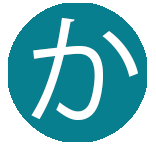
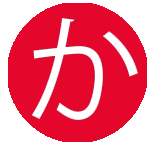
final version

diff --git a/pages/videos/video1.html b/pages/videos/video1.html
@@ -9,7 +9,7 @@
     <link rel="stylesheet" href="../../css/hover.css">
     <link rel="stylesheet" href="../../css/footer.css">
     <link rel="icon" type="image/x-icon" href="../../img/Sans titre-1.png">
-    <title>franceinfo - Les poussettes dans Paris : un danger insoupsonné</title>
+    <title>Seinen Mかnga - Vidéos</title>
 </head>
 <body>
     <header>
@@ -17,17 +17,17 @@
           <ul class="nav justify-content-left bonjour">
             <li class="nav-item">
               <a class="nav-link active" aria-current="page" href="../../index.html">
-                <h2 class="titree"><span id="blue">Enquête Manga</h2>
+                <h2 class="titree"><span id="blue">Seinen Mかnga</h2>
               </a>
             </li>
             <li class="nav-item">
-              <a class="nav-link" href="../articles.html"><span id="blue">Articles</span></a>
+              <a class="nav-link" href="../articles.html"><span id="blue">Magazine</span></a>
             </li>
             <li class="nav-item">
-              <a class="nav-link" href="../podcasts/podcast1.html"><span id="blue">Débat Radio</span></a>
+              <a class="nav-link" href="../podcasts/podcast1.html"><span id="blue">Radio</span></a>
             </li>
             <li class="nav-item">
-              <a class="nav-link" href="../videos/video1.html"><span id="blue">Vidéo</span></a>
+              <a class="nav-link" href="../videos/video1.html"><span id="blue">Vidéos</span></a>
             </li>
           </ul>
         </div>
@@ -36,9 +36,9 @@
     <div class="article">  
     </br>
     <div class="container">
-        <h3 class="titr" style="font-size:36px;">Les poussettes dans Paris : un danger insoupsonné</h3>
+        <h3 class="titr" style="font-size:36px;">Enquête : Le manga influence-t-il la société Française ?</h3>
         </br>
-        <p class="sous-titre">De multiples raisons peuvent expliquer la fuite de Paris. Bouchon, prix du loyer, bruit…Mais pour les futurs parents, c’est souvent l’envie d’un environnement plus sain pour leur enfant qui est la cause de leurs exodes. Alors, la capitale est-elle néfaste pour les plus petits ? Nous sommes partis à la rencontre d’Amine Arsan, pédiatre dans le 13 arrondissement de Paris. Pour qu’il nous explique, quels sont les risques véritables d’une croissance dans la capitale.</p>
+        <p class="sous-titre">Dans ces 3 épisodes nous nous sommes rendu dans les plus grande villes de France pour constater l'influence des mangas sur notre société.</p>
         <br/>
         <div class="auteur" style="margin-bottom: 0px;">
           <span>
@@ -46,10 +46,16 @@
           </span>
           <span style="padding-left: 9px;" class="sous-titre">La rédaction</span>
         </div>
+        <br>
+
+        <h3 class="titr" style="margin-bottom:-10px;">EP 1 : Paris - Rouen</h3>
+        <iframe width="560" height="315" src="https://www.youtube.com/embed/bZZPjBly59k" title="YouTube video player" frameborder="0" allow="accelerometer; autoplay; clipboard-write; encrypted-media; gyroscope; picture-in-picture; web-share" allowfullscreen></iframe>
       
-        <div class="videocont nav justify-content-center">
-          <iframe width="560" height="315" src="https://www.youtube.com/embed/AoAAomfhPJg" title="YouTube video player" frameborder="0" allow="accelerometer; autoplay; clipboard-write; encrypted-media; gyroscope; picture-in-picture; web-share" allowfullscreen></iframe>
-      </div>   
+      <h3 class="titr" style="margin-bottom:-10px;">EP 2 : Lyon</h3>
+      <iframe width="560" height="315" src="https://www.youtube.com/embed/dKjb59gvHHA" title="YouTube video player" frameborder="0" allow="accelerometer; autoplay; clipboard-write; encrypted-media; gyroscope; picture-in-picture; web-share" allowfullscreen></iframe>
+
+      <h3 class="titr" style="margin-bottom:-10px;">EP 3 : Marseille</h3>
+      <iframe width="560" height="315" src="https://www.youtube.com/embed/jcI0EFgpgs8" title="YouTube video player" frameborder="0" allow="accelerometer; autoplay; clipboard-write; encrypted-media; gyroscope; picture-in-picture; web-share" allowfullscreen></iframe>
     </div>
     </div>   
     

diff --git a/index.html b/index.html
@@ -11,7 +11,7 @@
     <link rel="stylesheet" href="css/footer.css">
     
     <link rel="icon" type="image/x-icon" href="./img/Sans titre-1.png">
-    <title>Enquête Manga</title>
+    <title>Seinen Mかnga</title>
 </head>
 <body>
     <header>
@@ -19,14 +19,14 @@
         <ul class="nav justify-content-left bonjour">
           <li class="nav-item">
             <a class="nav-link active" aria-current="page" href="#">
-              <h2 class="titree"><span id="blue">Enquête Manga</span></h2>
+              <h2 class="titree"><span id="blue">Seinen Mかnga</span></h2>
             </a>
           </li>
           <li class="nav-item">
             <a class="nav-link" href="pages/articles.html"><span id="blue">Magazine</span></a>
           </li>
           <li class="nav-item">
-            <a class="nav-link" href="pages/podcasts/podcast1.html"><span id="blue">Débat Radio</span></a>
+            <a class="nav-link" href="pages/podcasts/podcast1.html"><span id="blue">Radio</span></a>
           </li>
           <li class="nav-item">
             <a class="nav-link" href="pages/videos/video1.html"><span id="blue">Vidéo</span></a>
@@ -40,7 +40,7 @@
       <div class="container">
         <div>
           <h3 class="titr" style="font-size:33px">Magazine</h3>
-            <p class="sous-titre" style="font-size:21px;">Depuis que le député rassemblement national Jean-Phillipe Tanguy à critiqué la possibilié d'acheter des mangas grâce au pass culture, on peut se poser la question si la France se Japonise et pourquoi certains ne voient pas cela d'un bon oeil ?
+            <p class="sous-titre" style="font-size:21px;">Depuis que le député rassemblement national Jean-Phillipe Tanguy a critiqué la possibilié d'acheter des mangas grâce au pass culture, on peut se poser la question si la France se Japonise et pourquoi certains ne voient pas cela d'un bon oeil ?
             Retrouvez notre enquête sous forme de magazine ici</p>
             <a href="./pages/articles/article1.html" class="btn btn-outline-warning laptopButton">Lire</a>
         </div><br/>
@@ -53,13 +53,13 @@
     <div class="article lien lien2index">
       <div class="container">
         <div>
-          <h3 class="titr">Débat Radio</h3>
-            <p class="sous-titre" style="font-size:20px;">Quitter la capitale, trouver un nouveau logement, quitter son travail ou adapter son projet professionnel... Beaucoup d’étapes avant de pouvoir partir. 
-              Nous sommes allés interroger les acteurs de ce “marché du changement de vie.”          
+          <h3 class="titr">Seinen Radio - émission du 03/07</h3>
+            <p class="sous-titre" style="font-size:20px;">  
+              Un invité de marque et la chronique de Rayan à retrouver dans le replay de l'émission        
               </p>
         </div><br/>
         <div class="phoneImg">
-          <img src="./img/bagages.jpeg" alt="">
+          <img src="./img/projet-insonorisation-studio-radio.jpg">
         </div>
       </div>
     </div>
@@ -67,11 +67,13 @@
     <div class="article lien lien3index">
       <div class="container">
         <div>
-          <h3 class="titr">[Vidéo] </h3>
-          <p class="sous-titre" style="font-size:22px;">La capitale est-elle néfaste pour les plus petits ? L'avis d'un pédiatre.</p>
+          <h3 class="titr">[Vidéo] Enquête : Le manga influence-t-il la société Française ?</h3>
+          <p class="sous-titre" style="font-size:22px;">Découvrez 3 épisodes d'une enqûete pour laquelle nous nous sommes rendu dans les plus grande villes de France pour constater l'influence des mangas sur notre société.
+
+          </p>
         </div>
         <div class="phoneImg">
-          <img src="./img/doc.jpeg.png" alt="">
+          <img src="./img/Capture (1).png" alt="d">
         </div>
       </div>
     </div>

diff --git a/pages/podcasts/podcast1.html b/pages/podcasts/podcast1.html
@@ -9,7 +9,7 @@
     <link rel="stylesheet" href="../../css/hover.css">
     <link rel="stylesheet" href="../../css/footer.css">
     <link rel="icon" type="image/x-icon" href="../../img/Sans titre-1.png">
-    <title>franceinfo - Ces sites qui aident les familles à plier bagage</title>
+    <title>Seinen Mかnga - radio</title>
 </head>
 <body>
   
@@ -18,17 +18,17 @@
           <ul class="nav justify-content-left bonjour">
             <li class="nav-item">
               <a class="nav-link active" aria-current="page" href="../../index.html">
-                <h2 class="titree"><span id="blue">Enquête Manga</span></h2>
+                <h2 class="titree"><span id="blue">Seinen Mかnga</span></h2>
               </a>
             </li>
             <li class="nav-item">
                 <a class="nav-link" href="../articles.html"><span id="blue">Magazine</span></a>
               </li>
               <li class="nav-item">
-                <a class="nav-link" href="#"><span id="blue">Débat Radio</span></a>
+                <a class="nav-link" href="#"><span id="blue">Radio</span></a>
               </li>
               <li class="nav-item">
-                <a class="nav-link" href="../videos/video1.html"><span id="blue">Vidéo</span></a>
+                <a class="nav-link" href="../videos/video1.html"><span id="blue">Vidéos</span></a>
               </li>
           </ul>
         </div>
@@ -38,17 +38,15 @@
     <div style="margin-top: 20px;" class="article">
     </br>
       <div class="container">
-        <h3 class="titr">Ces sites qui aident les familles à plier bagage</h3>
+        <h3 class="titr">Seinen Radio - émission du 03/07</h3>
         </br>
-        <p class="sous-titre">Quitter la capitale est une idée qui fleurit dans beaucoup de têtes depuis les différents confinements. Trouver un nouveau logement, quitter son travail ou adapter son projet professionnel, beaucoup d’étapes avant de pouvoir partir. 
-          Nous sommes allés interroger les acteurs de ce “marché du changement de vie.”
-          
+        <p class="sous-titre">Un invité de marque et la chronique de Rayan à retrouver dans le replay de l'émission
           </p>
           <div class="auteur">
             <span>
               <img style="width:44px;" src="../../img/ppFranceInfo.png" alt="logoFI">   
             </span>
-            <span style="padding-left: 9px;" class="sous-titre">Lancelot Graffet</span>
+            <span style="padding-left: 9px;" class="sous-titre">La rédaction</span>
           </div>
         
         <figure>
@@ -61,7 +59,7 @@
       </figure>   
         </br>
           <div class="radioImg">
-            <img src="../../img/1.png" alt="">
+            <img src="../../img/projet-insonorisation-studio-radio.jpg" alt="Illu">
           </div>
       </div>
     </div>

diff --git a/pages/articles.html b/pages/articles.html
@@ -10,7 +10,7 @@
     <link rel="stylesheet" href="../css/footer.css">
     <link rel="stylesheet" href="../css/manga.css">
     <link rel="icon" type="image/x-icon" href="../img/Sans titre-1.png">
-    <title>Enquête Manga</title>
+    <title>Seinen Mかnga</title>
 </head>
 <body>
   
@@ -19,17 +19,17 @@
           <ul class="nav justify-content-left bonjour">
             <li class="nav-item">
               <a class="nav-link active" aria-current="page" href="../index.html">
-                <h2 class="titree"><span id="blue">Enquête Manga</span></h2>
+                <h2 class="titree"><span id="blue">Seinen Mかnga</span></h2>
               </a>
             </li>
             <li class="nav-item">
-                <a class="nav-link" href="articles.html"><span id="blue">Articles</span></a>
+                <a class="nav-link" href="articles.html"><span id="blue">Magazine</span></a>
               </li>
               <li class="nav-item">
                 <a class="nav-link" href="podcasts/podcast1.html"><span id="blue">Radio</span></a>
               </li>
               <li class="nav-item">
-                <a class="nav-link" href="videos/video1.html"><span id="blue">Vidéo</span></a>
+                <a class="nav-link" href="videos/video1.html"><span id="blue">Vidéos</span></a>
               </li>
           </ul>
         </div>

diff --git a/css/style.css b/css/style.css
@@ -46,7 +46,7 @@ audio {
 .lien{
     columns: 2;
     width: 100%;
-    border: #0bb9a2 10px;
+    border: #e90909 10px;
     transition: .5s ease;
 }
 
@@ -54,11 +54,11 @@ audio {
     cursor: pointer;
     box-shadow:
 
--1px -1px #0bb9a2,
--2px -2px #0bb9a2,
--3px -3px #0bb9a2,
--4px -4px #0bb9a2,
--5px -5px #0bb9a2;
+-1px -1px #e90909,
+-2px -2px #e90909,
+-3px -3px #e90909,
+-4px -4px #e90909,
+-5px -5px #e90909;
 -webkit-transform: translateX(-3px);
 transform: translateX(-3px);
 transition: .5s ease;
@@ -72,7 +72,7 @@ transition: .5s ease;
 
 
 .label{
-    color: #0bb9a2;
+    color: #e90909;
     text-decoration: underline;
 }
 
@@ -161,7 +161,7 @@ footer{
     width: 201px;
     line-height: 92px;
     color: white;
-    text-decoration: underline #ffe32b;
+    text-decoration: underline #e90909;
 
 }
 

diff --git a/css/hover.css b/css/hover.css
@@ -12,7 +12,7 @@
     height: 2px;
     bottom: 0;
     left: 0;
-    background-color: #0bb9a2;
+    background-color: #e90909;
     transform-origin: bottom right;
     transition: transform 0.35s ease-out;
   }
@@ -40,7 +40,7 @@
     height: 2px;
     bottom: 0;
     left: 0;
-    background-color: #0bb9a2;
+    background-color: #e90909;
     transform-origin: bottom right;
     transition: transform 0.35s ease-out;
   }

diff --git a/css/footer.css b/css/footer.css
@@ -34,7 +34,7 @@ input::placeholder{
     height: 50px;
     width: 100%;
     margin-bottom: 10px;
-    background-color: #0bb9a2;
+    background-color: #e90909;
     font-family: 'BrownRegular';
     font-size: 21px;
     color: #232323;
